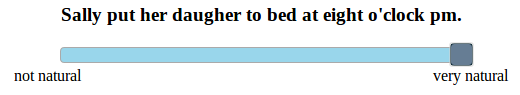
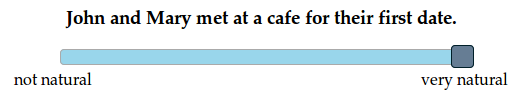
new instructions

diff --git a/roses.js b/roses.js
@@ -62,26 +62,27 @@ for (var i=0; i<2; i++) {
 targetTypes = shuffle(targetTypes);
 
 var qTypes = shuffle([
-  //"target0", "target1", "target2", "target3", "target4", "target5",
-  "filler0", "filler1", "filler2", "filler3", "filler4", "filler5", "filler6"
+  "target0", "target1", "target2", "target3", "target4", "target5",
+  "filler0", "filler1", "filler2", "filler3", "filler4"//, "filler5"//, "filler6"
 ]);
-/*var fillers = {"filler0": "Pat telephoned the sister of Sally’s friend yesterday."
+var fillers = {"filler0": "Off a cliff sprang the giddy driver."
   , "filler1": "The gopher dug a tunnel underneath the fence."
   , "filler2": "A math textbook and a spiral notebook were lying on the kitchen table."
   , "filler3": "Adam and Charlie liked to play cops and robbers together when they were little."
   , "filler4": "Nobody knew the solution to any of the logic puzzles in the book."
-  , "filler5": "Jill and Tom met at a cafe for their first date."};*/
-var fillers = {
-  "filler0":"Pat took out of the closet a stick of mud.",
-  "filler1":"A phone was unfolded by Bill.",
-  "filler2":"The mother of five plunged into a raucous fray.",
-  "filler3":"Off a cliff sprang the giddy diver.",
-  "filler4":"No person shall drink any beverage or chew noisily during class.",
-  "filler5":"Because the dog growled the robber fled.",
-  "filler6":"Alex telephoned the sister of Sally's friend yesterday.",
-  "filler7":"John and Mary met at a cafe for their first date."
-//"filler5":"Pat telephoned the sister of Sally's friend yesterday.",
-}
+  //, "filler5": "Jill and Tom met at a cafe for their first date."
+};
+// var fillers = {
+//   "filler0":"Pat took out of the closet a stick of mud.",
+//   "filler1":"A phone was unfolded by Bill.",
+//   "filler2":"The mother of five plunged into a raucous fray.",
+//   "filler3":"Off a cliff sprang the giddy diver.",
+//   "filler4":"No person shall drink any beverage or chew noisily during class.",
+//   "filler5":"Because the dog growled the robber fled.",
+//   "filler6":"Alex telephoned the sister of Sally's friend yesterday.",
+//   "filler7":"John and Mary met at a cafe for their first date."
+// //"filler5":"Pat telephoned the sister of Sally's friend yesterday.",
+// }
 var targets = {"target0": new Target("roses", "daffodils", "flowers", "This shop sells ", ".")
   , "target1": new Target("biologists", "paleontologists", "scientists", "The advisory panel included a number of ", ".")
   , "target2": new Target("beef", "veal", "meat", "The recipe called for ", " to be included in the stew.")
@@ -141,7 +142,7 @@ var experiment = {
     }
 
     trialData["sentence"]=viewsentence;
-    trialData["superset"] =superset;
+    trialData["superset"]=superset;
 /*    console.log(trialType);
     if (typeof(trialType) == "string") {
       sentence = fillers[trialType];

diff --git a/roses.html b/roses.html
@@ -51,9 +51,12 @@
   <p>Here are some examples for how to use this scale:</p>
   <img src="high.png" border="1"></img>
   <br/>
-  <!-- <img src="medium.png" border="1"></img>
-  <br/> -->
+  <br/>
+  <img src="medium.png" border="1"></img>
+  <br/>
+  <br/>
   <img src="low.png" border="1"></img>
+  <br/>
   <br/>
   <p>Please click "Begin" when you're ready to start.</p>
   <button type="button" id="begin" value="Begin">
